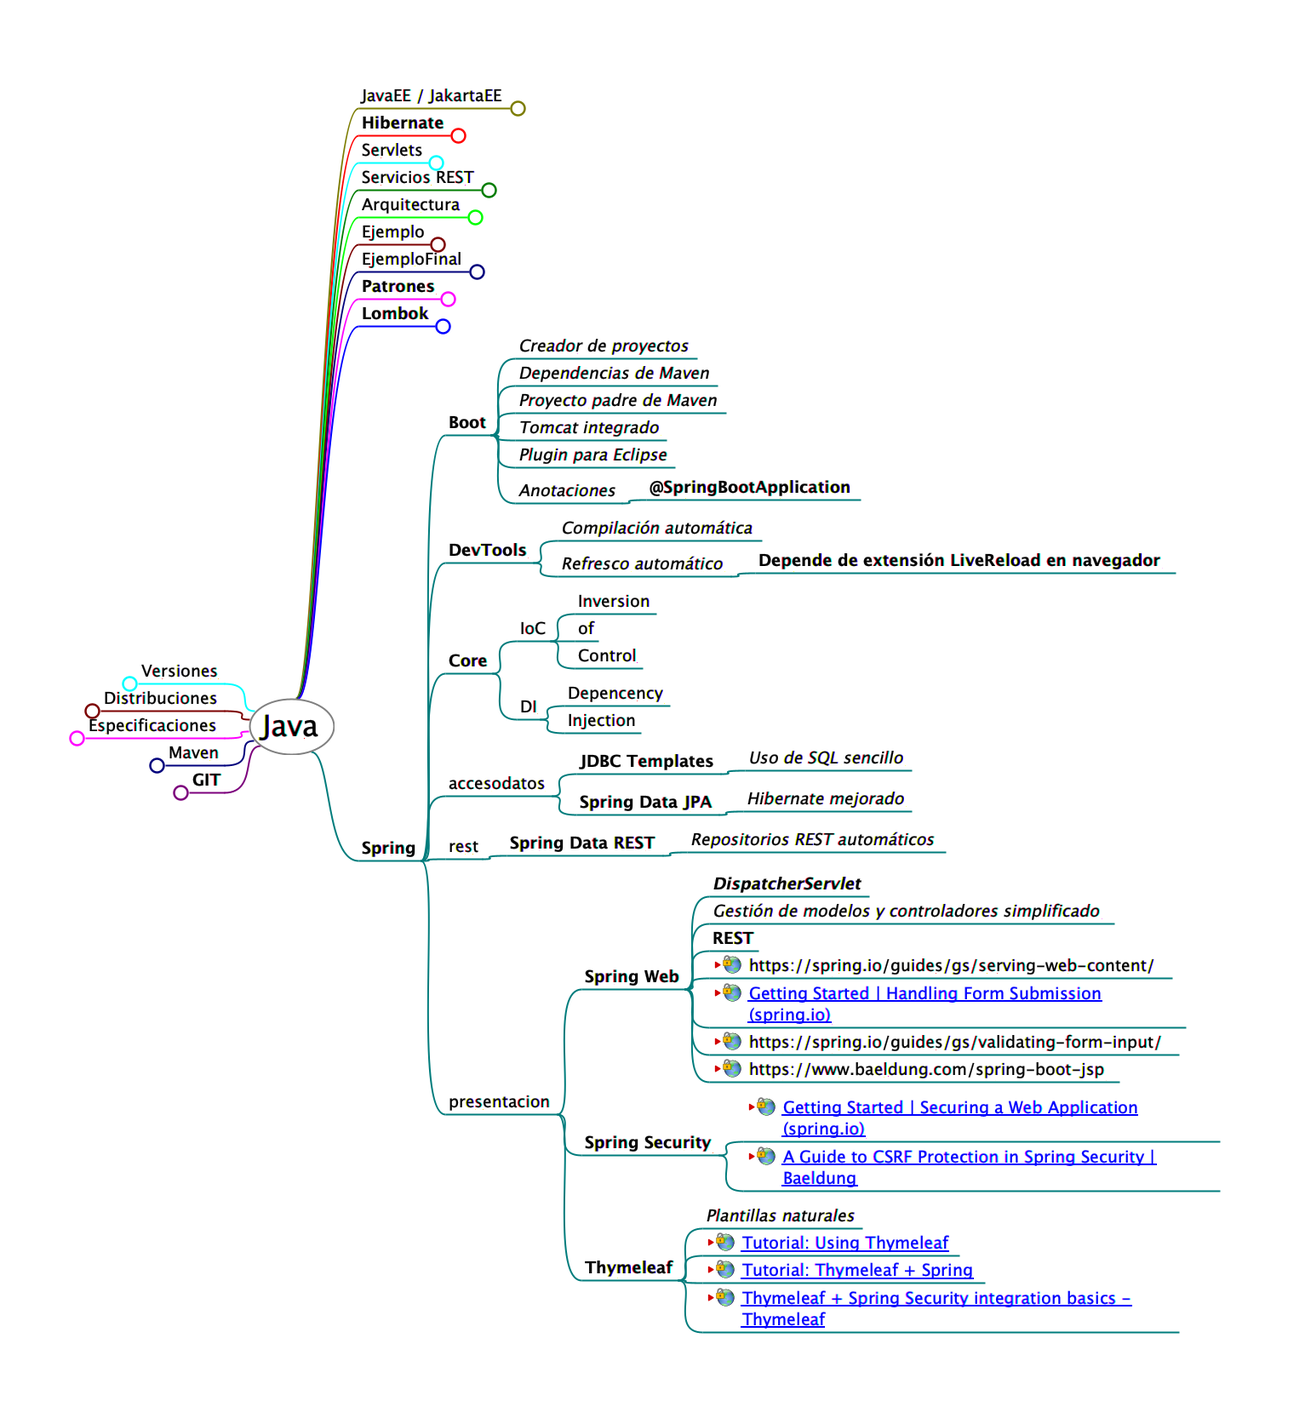
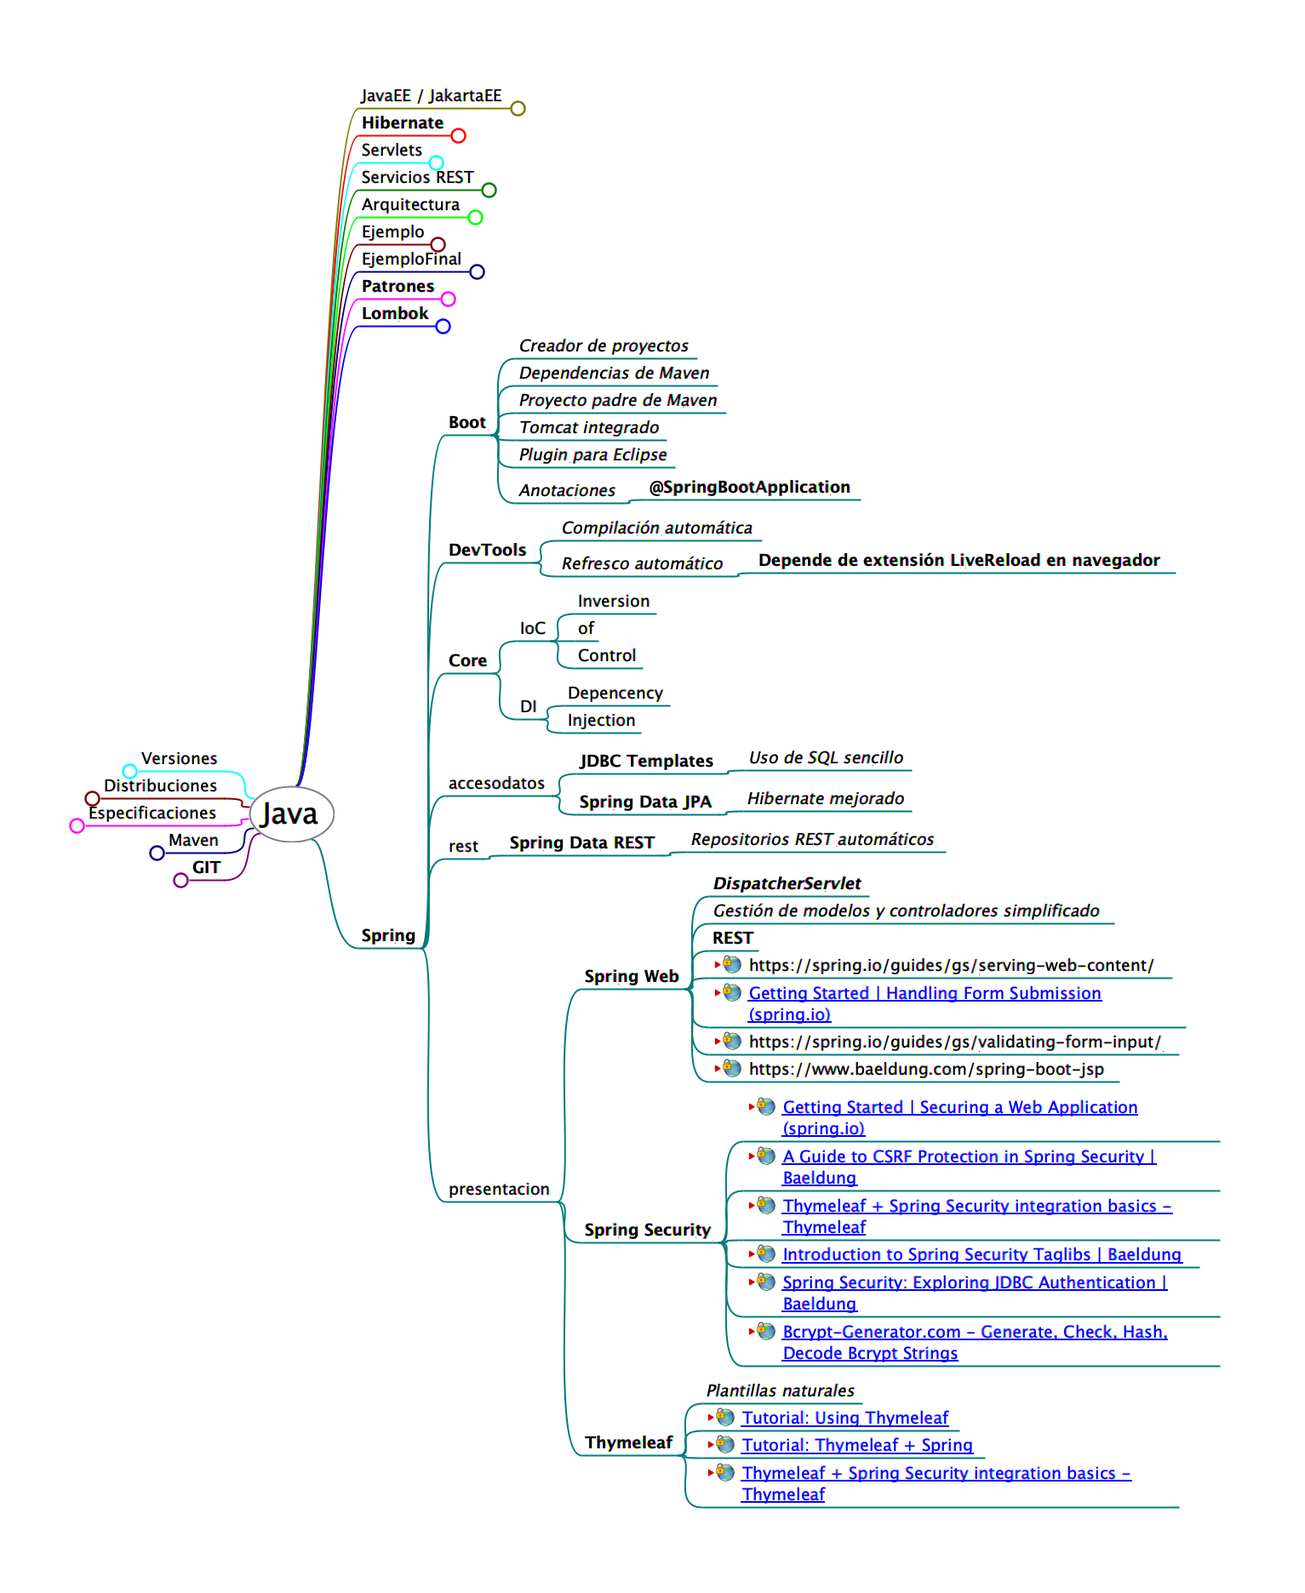
Actualización del diagrama

diff --git a/Java.html b/Java.html
@@ -23,7 +23,7 @@
                    };
                };
           
-          --></script></head><body><h1>Java</h1><div style="width:96%;  padding:2%;  margin-bottom:10px;  border: 0px;  text-align:center;  vertical-align:center;"><img src="Java.html_files/image.png" style="margin-bottom:10px; &#9;border: 0px; &#9;text-align:center; &#9;vertical-align:center;" alt="Imagemap" usemap="#fm_imagemap" /></div><map name="fm_imagemap" id="fm_imagemap"><area shape="rect" href="#FMID_696401721FM" alt="Java" title="Java" coords="292,820,393,887" />
+          --></script></head><body><h1>Java</h1><div style="width:96%;  padding:2%;  margin-bottom:10px;  border: 0px;  text-align:center;  vertical-align:center;"><img src="Java.html_files/image.png" style="margin-bottom:10px; &#9;border: 0px; &#9;text-align:center; &#9;vertical-align:center;" alt="Imagemap" usemap="#fm_imagemap" /></div><map name="fm_imagemap" id="fm_imagemap"><area shape="rect" href="#FMID_696401721FM" alt="Java" title="Java" coords="292,923,393,990" />
 <area shape="rect" href="#FMID_1699007057FM" alt="JavaEE / JakartaEE" title="JavaEE / JakartaEE" coords="421,100,599,128" />
 <area shape="rect" href="#FMID_516886598FM" alt="Hibernate" title="Hibernate" coords="421,132,529,160" />
 <area shape="rect" href="#FMID_74541344FM" alt="Servlets" title="Servlets" coords="421,164,503,192" />
@@ -33,12 +33,12 @@
 <area shape="rect" href="#FMID_1604011567FM" alt="EjemploFinal" title="EjemploFinal" coords="421,292,551,320" />
 <area shape="rect" href="#FMID_240931551FM" alt="Patrones" title="Patrones" coords="421,324,517,352" />
 <area shape="rect" href="#FMID_130204381FM" alt="Lombok" title="Lombok" coords="421,356,511,384" />
-<area shape="rect" href="#FMID_403091076FM" alt="Versiones" title="Versiones" coords="162,776,264,804" />
-<area shape="rect" href="#FMID_506640010FM" alt="Distribuciones" title="Distribuciones" coords="118,808,264,836" />
-<area shape="rect" href="#FMID_1928206385FM" alt="Especificaciones" title="Especificaciones" coords="100,840,264,868" />
-<area shape="rect" href="#FMID_1688338203FM" alt="Maven" title="Maven" coords="194,872,264,900" />
-<area shape="rect" href="#FMID_325392228FM" alt="GIT" title="GIT" coords="222,904,264,932" />
-<area shape="rect" href="#FMID_730180386FM" alt="Spring" title="Spring" coords="421,984,495,1012" />
+<area shape="rect" href="#FMID_403091076FM" alt="Versiones" title="Versiones" coords="162,879,264,907" />
+<area shape="rect" href="#FMID_506640010FM" alt="Distribuciones" title="Distribuciones" coords="118,911,264,939" />
+<area shape="rect" href="#FMID_1928206385FM" alt="Especificaciones" title="Especificaciones" coords="100,943,264,971" />
+<area shape="rect" href="#FMID_1688338203FM" alt="Maven" title="Maven" coords="194,975,264,1003" />
+<area shape="rect" href="#FMID_325392228FM" alt="GIT" title="GIT" coords="222,1007,264,1035" />
+<area shape="rect" href="#FMID_730180386FM" alt="Spring" title="Spring" coords="421,1087,495,1115" />
 <area shape="rect" href="#FMID_1578819903FM" alt="Boot" title="Boot" coords="523,484,577,512" />
 <area shape="rect" href="#FMID_1392346675FM" alt="Creador de proyectos" title="Creador de proyectos" coords="605,394,819,422" />
 <area shape="rect" href="#FMID_1007536590FM" alt="Dependencias de Maven" title="Dependencias de Maven" coords="605,426,843,454" />
@@ -67,7 +67,7 @@
 <area shape="rect" href="#FMID_948904646FM" alt="rest" title="rest" coords="523,982,567,1010" />
 <area shape="rect" href="#FMID_1150572819FM" alt="Spring Data REST" title="Spring Data REST" coords="595,978,779,1006" />
 <area shape="rect" href="#FMID_439849273FM" alt="Repositorios REST autom&aacute;ticos" title="Repositorios REST autom&aacute;ticos" coords="807,974,1111,1002" />
-<area shape="rect" href="#FMID_883745346FM" alt="presentacion" title="presentacion" coords="523,1282,655,1310" />
+<area shape="rect" href="#FMID_883745346FM" alt="presentacion" title="presentacion" coords="523,1385,655,1413" />
 <area shape="rect" href="#FMID_1660303344FM" alt="Spring Web" title="Spring Web" coords="683,1135,805,1163" />
 <area shape="rect" href="#FMID_508468656FM" alt="DispatcherServlet" title="DispatcherServlet" coords="833,1026,1021,1054" />
 <area shape="rect" href="#FMID_484881427FM" alt="Gesti&oacute;n de modelos y controladores simpl ..." title="Gesti&oacute;n de modelos y controladores simpl ..." coords="833,1058,1309,1086" />
@@ -76,14 +76,18 @@
 <area shape="rect" href="#FMID_1974281903FM" alt="Getting Started | Handling Form Submissi ..." title="Getting Started | Handling Form Submissi ..." coords="833,1154,1393,1208" />
 <area shape="rect" href="#FMID_1985099807FM" alt="https://spring.io/guides/gs/validating-f ..." title="https://spring.io/guides/gs/validating-f ..." coords="833,1212,1385,1240" />
 <area shape="rect" href="#FMID_1452140117FM" alt="https://www.baeldung.com/spring-boot-jsp" title="https://www.baeldung.com/spring-boot-jsp" coords="833,1244,1315,1272" />
-<area shape="rect" href="#FMID_949886770FM" alt="Spring Security" title="Spring Security" coords="683,1330,845,1358" />
+<area shape="rect" href="#FMID_949886770FM" alt="Spring Security" title="Spring Security" coords="683,1433,845,1461" />
 <area shape="rect" href="#FMID_999389691FM" alt="Getting Started | Securing a Web Applica ..." title="Getting Started | Securing a Web Applica ..." coords="873,1288,1433,1342" />
 <area shape="rect" href="#FMID_1757011095FM" alt="A Guide to CSRF Protection in Spring Sec ..." title="A Guide to CSRF Protection in Spring Sec ..." coords="873,1346,1433,1400" />
-<area shape="rect" href="#FMID_1996781833FM" alt="Thymeleaf" title="Thymeleaf" coords="683,1477,797,1505" />
-<area shape="rect" href="#FMID_1594077465FM" alt="Plantillas naturales" title="Plantillas naturales" coords="825,1416,1013,1444" />
-<area shape="rect" href="#FMID_192990006FM" alt="Tutorial: Using Thymeleaf" title="Tutorial: Using Thymeleaf" coords="825,1448,1127,1476" />
-<area shape="rect" href="#FMID_1264880321FM" alt="Tutorial: Thymeleaf + Spring" title="Tutorial: Thymeleaf + Spring" coords="825,1480,1157,1508" />
-<area shape="rect" href="#FMID_1369597923FM" alt="Thymeleaf + Spring Security integration  ..." title="Thymeleaf + Spring Security integration  ..." coords="825,1512,1385,1566" />
+<area shape="rect" href="#FMID_817939779FM" alt="Thymeleaf + Spring Security integration  ..." title="Thymeleaf + Spring Security integration  ..." coords="873,1404,1433,1458" />
+<area shape="rect" href="#FMID_753098793FM" alt="Introduction to Spring Security Taglibs  ..." title="Introduction to Spring Security Taglibs  ..." coords="873,1462,1409,1490" />
+<area shape="rect" href="#FMID_547987593FM" alt="Spring Security: Exploring JDBC Authenti ..." title="Spring Security: Exploring JDBC Authenti ..." coords="873,1494,1433,1548" />
+<area shape="rect" href="#FMID_1395632693FM" alt="Bcrypt-Generator.com - Generate, Check,  ..." title="Bcrypt-Generator.com - Generate, Check,  ..." coords="873,1552,1433,1606" />
+<area shape="rect" href="#FMID_1996781833FM" alt="Thymeleaf" title="Thymeleaf" coords="683,1683,797,1711" />
+<area shape="rect" href="#FMID_1594077465FM" alt="Plantillas naturales" title="Plantillas naturales" coords="825,1622,1013,1650" />
+<area shape="rect" href="#FMID_192990006FM" alt="Tutorial: Using Thymeleaf" title="Tutorial: Using Thymeleaf" coords="825,1654,1127,1682" />
+<area shape="rect" href="#FMID_1264880321FM" alt="Tutorial: Thymeleaf + Spring" title="Tutorial: Thymeleaf + Spring" coords="825,1686,1157,1714" />
+<area shape="rect" href="#FMID_1369597923FM" alt="Thymeleaf + Spring Security integration  ..." title="Thymeleaf + Spring Security integration  ..." coords="825,1718,1385,1772" />
 </map>
 
 <div class="node"><img src="Java.html_files/hide.png" class="hideshow" alt="hide" onClick="toggle(&quot;N65543&quot;)" id="imgN65543" /><a id="FMID_696401721FM" /><div class="nodecontent" style="color:#000000;font-size:150%;">Java</div><div class="content" id="N65543"><div class="node"><img src="Java.html_files/hide.png" class="hideshow" alt="hide" onClick="toggle(&quot;N66502&quot;)" id="imgN66502" /><a id="FMID_1699007057FM" /><div class="nodecontent" style="color:#000000;font-size:83%;">JavaEE / JakartaEE</div><div class="content" id="N66502"><div class="node"><img src="Java.html_files/leaf.png" class="hideshow" alt="leaf" /><a id="FMID_897629105FM" /><div class="nodecontent" style="color:#000000;font-size:83%;">Dynamic Web Project</div></div><div class="node"><img src="Java.html_files/leaf.png" class="hideshow" alt="leaf" /><a id="FMID_1649984372FM" /><div class="nodecontent" style="color:#000000;font-size:83%;">Configure as Maven Project</div></div><div class="node"><img src="Java.html_files/hide.png" class="hideshow" alt="hide" onClick="toggle(&quot;N66611&quot;)" id="imgN66611" /><a id="FMID_765353023FM" /><div class="nodecontent" style="color:#000000;font-size:83%;">pom.xml</div><div class="content" id="N66611"><div class="node"><img src="Java.html_files/hide.png" class="hideshow" alt="hide" onClick="toggle(&quot;N66647&quot;)" id="imgN66647" /><a id="FMID_56437131FM" /><div class="nodecontent" style="color:#000000;font-size:83%;">Siglas</div><div class="content" id="N66647"><div class="node"><img src="Java.html_files/leaf.png" class="hideshow" alt="leaf" /><a id="FMID_575474313FM" /><div class="nodecontent" style="color:#000000;font-size:83%;">Project</div></div><div class="node"><img src="Java.html_files/leaf.png" class="hideshow" alt="leaf" /><a id="FMID_1097523100FM" /><div class="nodecontent" style="color:#000000;font-size:83%;">Object</div></div><div class="node"><img src="Java.html_files/leaf.png" class="hideshow" alt="leaf" /><a id="FMID_781322247FM" /><div class="nodecontent" style="color:#000000;font-size:83%;">Model</div></div></div></div><div class="node"><img src="Java.html_files/leaf.png" class="hideshow" alt="leaf" /><a id="FMID_1987830949FM" /><div class="nodecontent" style="color:#000000;font-size:83%;">dependencies</div></div></div></div><div class="node"><img src="Java.html_files/hide.png" class="hideshow" alt="hide" onClick="toggle(&quot;N66829&quot;)" id="imgN66829" /><a id="FMID_1552130528FM" /><div class="nodecontent" style="color:#000000;font-size:83%;">modelos</div><div class="content" id="N66829"><div class="node"><img src="Java.html_files/hide.png" class="hideshow" alt="hide" onClick="toggle(&quot;N66865&quot;)" id="imgN66865" /><a id="FMID_1429630404FM" /><div class="nodecontent" style="color:#000000;font-size:83%;">Clase</div><div class="content" id="N66865"><div class="node"><img src="Java.html_files/hide.png" class="hideshow" alt="hide" onClick="toggle(&quot;N66901&quot;)" id="imgN66901" /><a id="FMID_727918852FM" /><div class="nodecontent" style="color:#000000;font-size:83%;">Variables de instancia</div><div class="content" id="N66901"><div class="node"><img src="Java.html_files/leaf.png" class="hideshow" alt="leaf" /><a id="FMID_1444179911FM" /><div class="nodecontent" style="color:#000000;font-size:83%;font-weight:bold;">private</div></div></div></div><div class="node"><img src="Java.html_files/leaf.png" class="hideshow" alt="leaf" /><a id="FMID_310698210FM" /><div class="nodecontent" style="color:#000000;font-size:83%;">Constructor</div></div><div class="node"><img src="Java.html_files/leaf.png" class="hideshow" alt="leaf" /><a id="FMID_1595322559FM" /><div class="nodecontent" style="color:#000000;font-size:83%;">Getters y setters</div></div><div class="node"><img src="Java.html_files/leaf.png" class="hideshow" alt="leaf" /><a id="FMID_1303079250FM" /><div class="nodecontent" style="color:#000000;font-size:83%;">hashCode</div></div><div class="node"><img src="Java.html_files/hide.png" class="hideshow" alt="hide" onClick="toggle(&quot;N67082&quot;)" id="imgN67082" /><a id="FMID_148227389FM" /><div class="nodecontent" style="color:#000000;font-size:83%;">equals</div><div class="content" id="N67082"><div class="node"><img src="Java.html_files/leaf.png" class="hideshow" alt="leaf" /><a id="FMID_1445335775FM" /><div class="nodecontent" style="color:#000000;font-size:83%;">Comparación por contenido</div></div></div></div><div class="node"><img src="Java.html_files/leaf.png" class="hideshow" alt="leaf" /><a id="FMID_1368585562FM" /><div class="nodecontent" style="color:#000000;font-size:83%;">toString</div></div></div></div></div></div><div class="node"><img src="Java.html_files/hide.png" class="hideshow" alt="hide" onClick="toggle(&quot;N67193&quot;)" id="imgN67193" /><a id="FMID_725735953FM" /><div class="nodecontent" style="color:#000000;font-size:83%;font-weight:bold;">JPA</div><div class="content" id="N67193"><div class="node"><img src="Java.html_files/hide.png" class="hideshow" alt="hide" onClick="toggle(&quot;N67228&quot;)" id="imgN67228" /><a id="FMID_789070425FM" /><div class="nodecontent" style="color:#000000;font-size:83%;">Siglas</div><div class="content" id="N67228"><div class="node"><img src="Java.html_files/leaf.png" class="hideshow" alt="leaf" /><a id="FMID_257861550FM" /><div class="nodecontent" style="color:#000000;font-size:83%;">Java</div></div><div class="node"><img src="Java.html_files/leaf.png" class="hideshow" alt="leaf" /><a id="FMID_633674836FM" /><div class="nodecontent" style="color:#000000;font-size:83%;">Persistence</div></div><div class="node"><img src="Java.html_files/hide.png" class="hideshow" alt="hide" onClick="toggle(&quot;N67335&quot;)" id="imgN67335" /><a id="FMID_1820018480FM" /><div class="nodecontent" style="color:#000000;font-size:83%;">API</div><div class="content" id="N67335"><div class="node"><img src="Java.html_files/leaf.png" class="hideshow" alt="leaf" /><a id="FMID_1682551246FM" /><div class="nodecontent" style="color:#000000;font-size:83%;">Application</div></div><div class="node"><img src="Java.html_files/leaf.png" class="hideshow" alt="leaf" /><a id="FMID_702680551FM" /><div class="nodecontent" style="color:#000000;font-size:83%;">Programming</div></div><div class="node"><img src="Java.html_files/leaf.png" class="hideshow" alt="leaf" /><a id="FMID_1064307045FM" /><div class="nodecontent" style="color:#000000;font-size:83%;">Interface</div></div></div></div></div></div></div></div><div class="node"><img src="Java.html_files/leaf.png" class="hideshow" alt="leaf" /><a id="FMID_231017778FM" /><div class="nodecontent" style="color:#000000;font-size:83%;font-weight:bold;">Bean Validation</div></div></div></div><div class="node"><img src="Java.html_files/hide.png" class="hideshow" alt="hide" onClick="toggle(&quot;N67518&quot;)" id="imgN67518" /><a id="FMID_516886598FM" /><div class="nodecontent" style="color:#000000;font-size:83%;font-weight:bold;">Hibernate</div><div class="content" id="N67518"><div class="node"><img src="Java.html_files/hide.png" class="hideshow" alt="hide" onClick="toggle(&quot;N67555&quot;)" id="imgN67555" /><a id="FMID_404664928FM" /><div class="nodecontent" style="color:#000000;font-size:83%;font-weight:bold;">ORM</div><div class="content" id="N67555"><div class="node"><img src="Java.html_files/hide.png" class="hideshow" alt="hide" onClick="toggle(&quot;N67590&quot;)" id="imgN67590" /><a id="FMID_1616777769FM" /><div class="nodecontent" style="color:#000000;font-size:83%;">Siglas</div><div class="content" id="N67590"><div class="node"><img src="Java.html_files/leaf.png" class="hideshow" alt="leaf" /><a id="FMID_1618840945FM" /><div class="nodecontent" style="color:#000000;font-size:83%;">Object</div></div><div class="node"><img src="Java.html_files/leaf.png" class="hideshow" alt="leaf" /><a id="FMID_330811145FM" /><div class="nodecontent" style="color:#000000;font-size:83%;">Relational</div></div><div class="node"><img src="Java.html_files/leaf.png" class="hideshow" alt="leaf" /><a id="FMID_1292506544FM" /><div class="nodecontent" style="color:#000000;font-size:83%;">Mapping</div></div></div></div><div class="node"><img src="Java.html_files/leaf.png" class="hideshow" alt="leaf" /><a id="FMID_1095433309FM" /><div class="nodecontent" style="color:#000000;font-size:83%;font-style:italic;">Persistencia en base de datos automatizada</div></div><div class="node"><img src="Java.html_files/leaf.png" class="hideshow" alt="leaf" /><a id="FMID_1005239647FM" /><div class="nodecontent" style="color:#000000;font-size:83%;font-style:italic;">JPA</div></div><div class="node"><img src="Java.html_files/leaf.png" class="hideshow" alt="leaf" /><a id="FMID_377987711FM" /><div class="nodecontent" style="color:#000000;font-size:83%;">Clase -&gt; Tabla</div></div><div class="node"><img src="Java.html_files/leaf.png" class="hideshow" alt="leaf" /><a id="FMID_1639019374FM" /><div class="nodecontent" style="color:#000000;font-size:83%;">Variables de instancia -&gt; Campos</div></div><div class="node"><img src="Java.html_files/leaf.png" class="hideshow" alt="leaf" /><a id="FMID_1811355465FM" /><div class="nodecontent" style="color:#000000;font-size:83%;">Objetos -&gt; Filas</div></div><div class="node"><img src="Java.html_files/leaf.png" class="hideshow" alt="leaf" /><a id="FMID_177823998FM" /><div class="nodecontent" style="color:#000000;font-size:83%;"><a href="https://docs.jboss.org/hibernate/orm/current/quickstart/html_single/">
@@ -102,7 +106,15 @@
     <a charset="utf-8" href="https://spring.io/guides/gs/securing-web/">Getting Started | Securing a Web Application (spring.io)</a>
   </a> <a href="https://spring.io/guides/gs/securing-web/"><img src="Java.html_files/ilink.png" alt="User Link" style="border-width:0" /></a></div></div><div class="node"><img src="Java.html_files/leaf.png" class="hideshow" alt="leaf" /><a id="FMID_1757011095FM" /><div class="nodecontent" style="color:#000000;font-size:83%;"><a href="https://www.baeldung.com/spring-security-csrf">
     <a charset="utf-8" href="https://www.baeldung.com/spring-security-csrf">A Guide to CSRF Protection in Spring Security | Baeldung</a>
-  </a> <a href="https://www.baeldung.com/spring-security-csrf"><img src="Java.html_files/ilink.png" alt="User Link" style="border-width:0" /></a></div></div></div></div><div class="node"><img src="Java.html_files/hide.png" class="hideshow" alt="hide" onClick="toggle(&quot;N81145&quot;)" id="imgN81145" /><a id="FMID_1996781833FM" /><div class="nodecontent" style="color:#000000;font-size:83%;font-weight:bold;">Thymeleaf</div><div class="content" id="N81145"><div class="node"><img src="Java.html_files/leaf.png" class="hideshow" alt="leaf" /><a id="FMID_1594077465FM" /><div class="nodecontent" style="color:#000000;font-size:83%;font-style:italic;">Plantillas naturales</div></div><div class="node"><img src="Java.html_files/leaf.png" class="hideshow" alt="leaf" /><a id="FMID_192990006FM" /><div class="nodecontent" style="color:#000000;font-size:83%;"><a href="https://www.thymeleaf.org/doc/tutorials/3.1/usingthymeleaf.html">
+  </a> <a href="https://www.baeldung.com/spring-security-csrf"><img src="Java.html_files/ilink.png" alt="User Link" style="border-width:0" /></a></div></div><div class="node"><img src="Java.html_files/leaf.png" class="hideshow" alt="leaf" /><a id="FMID_817939779FM" /><div class="nodecontent" style="color:#000000;font-size:83%;"><a href="https://www.thymeleaf.org/doc/articles/springsecurity.html">
+    <a charset="utf-8" href="https://www.thymeleaf.org/doc/articles/springsecurity.html">Thymeleaf + Spring Security integration basics - Thymeleaf</a>
+  </a> <a href="https://www.thymeleaf.org/doc/articles/springsecurity.html"><img src="Java.html_files/ilink.png" alt="User Link" style="border-width:0" /></a></div></div><div class="node"><img src="Java.html_files/leaf.png" class="hideshow" alt="leaf" /><a id="FMID_753098793FM" /><div class="nodecontent" style="color:#000000;font-size:83%;"><a href="https://www.baeldung.com/spring-security-taglibs">
+    <a charset="utf-8" href="https://www.baeldung.com/spring-security-taglibs">Introduction to Spring Security Taglibs | Baeldung</a>
+  </a> <a href="https://www.baeldung.com/spring-security-taglibs"><img src="Java.html_files/ilink.png" alt="User Link" style="border-width:0" /></a></div></div><div class="node"><img src="Java.html_files/leaf.png" class="hideshow" alt="leaf" /><a id="FMID_547987593FM" /><div class="nodecontent" style="color:#000000;font-size:83%;"><a href="https://www.baeldung.com/spring-security-jdbc-authentication">
+    <a charset="utf-8" href="https://www.baeldung.com/spring-security-jdbc-authentication">Spring Security: Exploring JDBC Authentication | Baeldung</a>
+  </a> <a href="https://www.baeldung.com/spring-security-jdbc-authentication"><img src="Java.html_files/ilink.png" alt="User Link" style="border-width:0" /></a></div></div><div class="node"><img src="Java.html_files/leaf.png" class="hideshow" alt="leaf" /><a id="FMID_1395632693FM" /><div class="nodecontent" style="color:#000000;font-size:83%;"><a href="https://bcrypt-generator.com/">
+    <a charset="utf-8" href="https://bcrypt-generator.com/">Bcrypt-Generator.com - Generate, Check, Hash, Decode Bcrypt Strings</a>
+  </a> <a href="https://bcrypt-generator.com/"><img src="Java.html_files/ilink.png" alt="User Link" style="border-width:0" /></a></div></div></div></div><div class="node"><img src="Java.html_files/hide.png" class="hideshow" alt="hide" onClick="toggle(&quot;N81361&quot;)" id="imgN81361" /><a id="FMID_1996781833FM" /><div class="nodecontent" style="color:#000000;font-size:83%;font-weight:bold;">Thymeleaf</div><div class="content" id="N81361"><div class="node"><img src="Java.html_files/leaf.png" class="hideshow" alt="leaf" /><a id="FMID_1594077465FM" /><div class="nodecontent" style="color:#000000;font-size:83%;font-style:italic;">Plantillas naturales</div></div><div class="node"><img src="Java.html_files/leaf.png" class="hideshow" alt="leaf" /><a id="FMID_192990006FM" /><div class="nodecontent" style="color:#000000;font-size:83%;"><a href="https://www.thymeleaf.org/doc/tutorials/3.1/usingthymeleaf.html">
     <a charset="utf-8" href="https://www.thymeleaf.org/doc/tutorials/3.1/usingthymeleaf.html">Tutorial: Using Thymeleaf</a>
   </a> <a href="https://www.thymeleaf.org/doc/tutorials/3.1/usingthymeleaf.html"><img src="Java.html_files/ilink.png" alt="User Link" style="border-width:0" /></a></div></div><div class="node"><img src="Java.html_files/leaf.png" class="hideshow" alt="leaf" /><a id="FMID_1264880321FM" /><div class="nodecontent" style="color:#000000;font-size:83%;"><a href="https://www.thymeleaf.org/doc/tutorials/3.1/thymeleafspring.html">
     <a charset="utf-8" href="https://www.thymeleaf.org/doc/tutorials/3.1/thymeleafspring.html">Tutorial: Thymeleaf + Spring</a>
